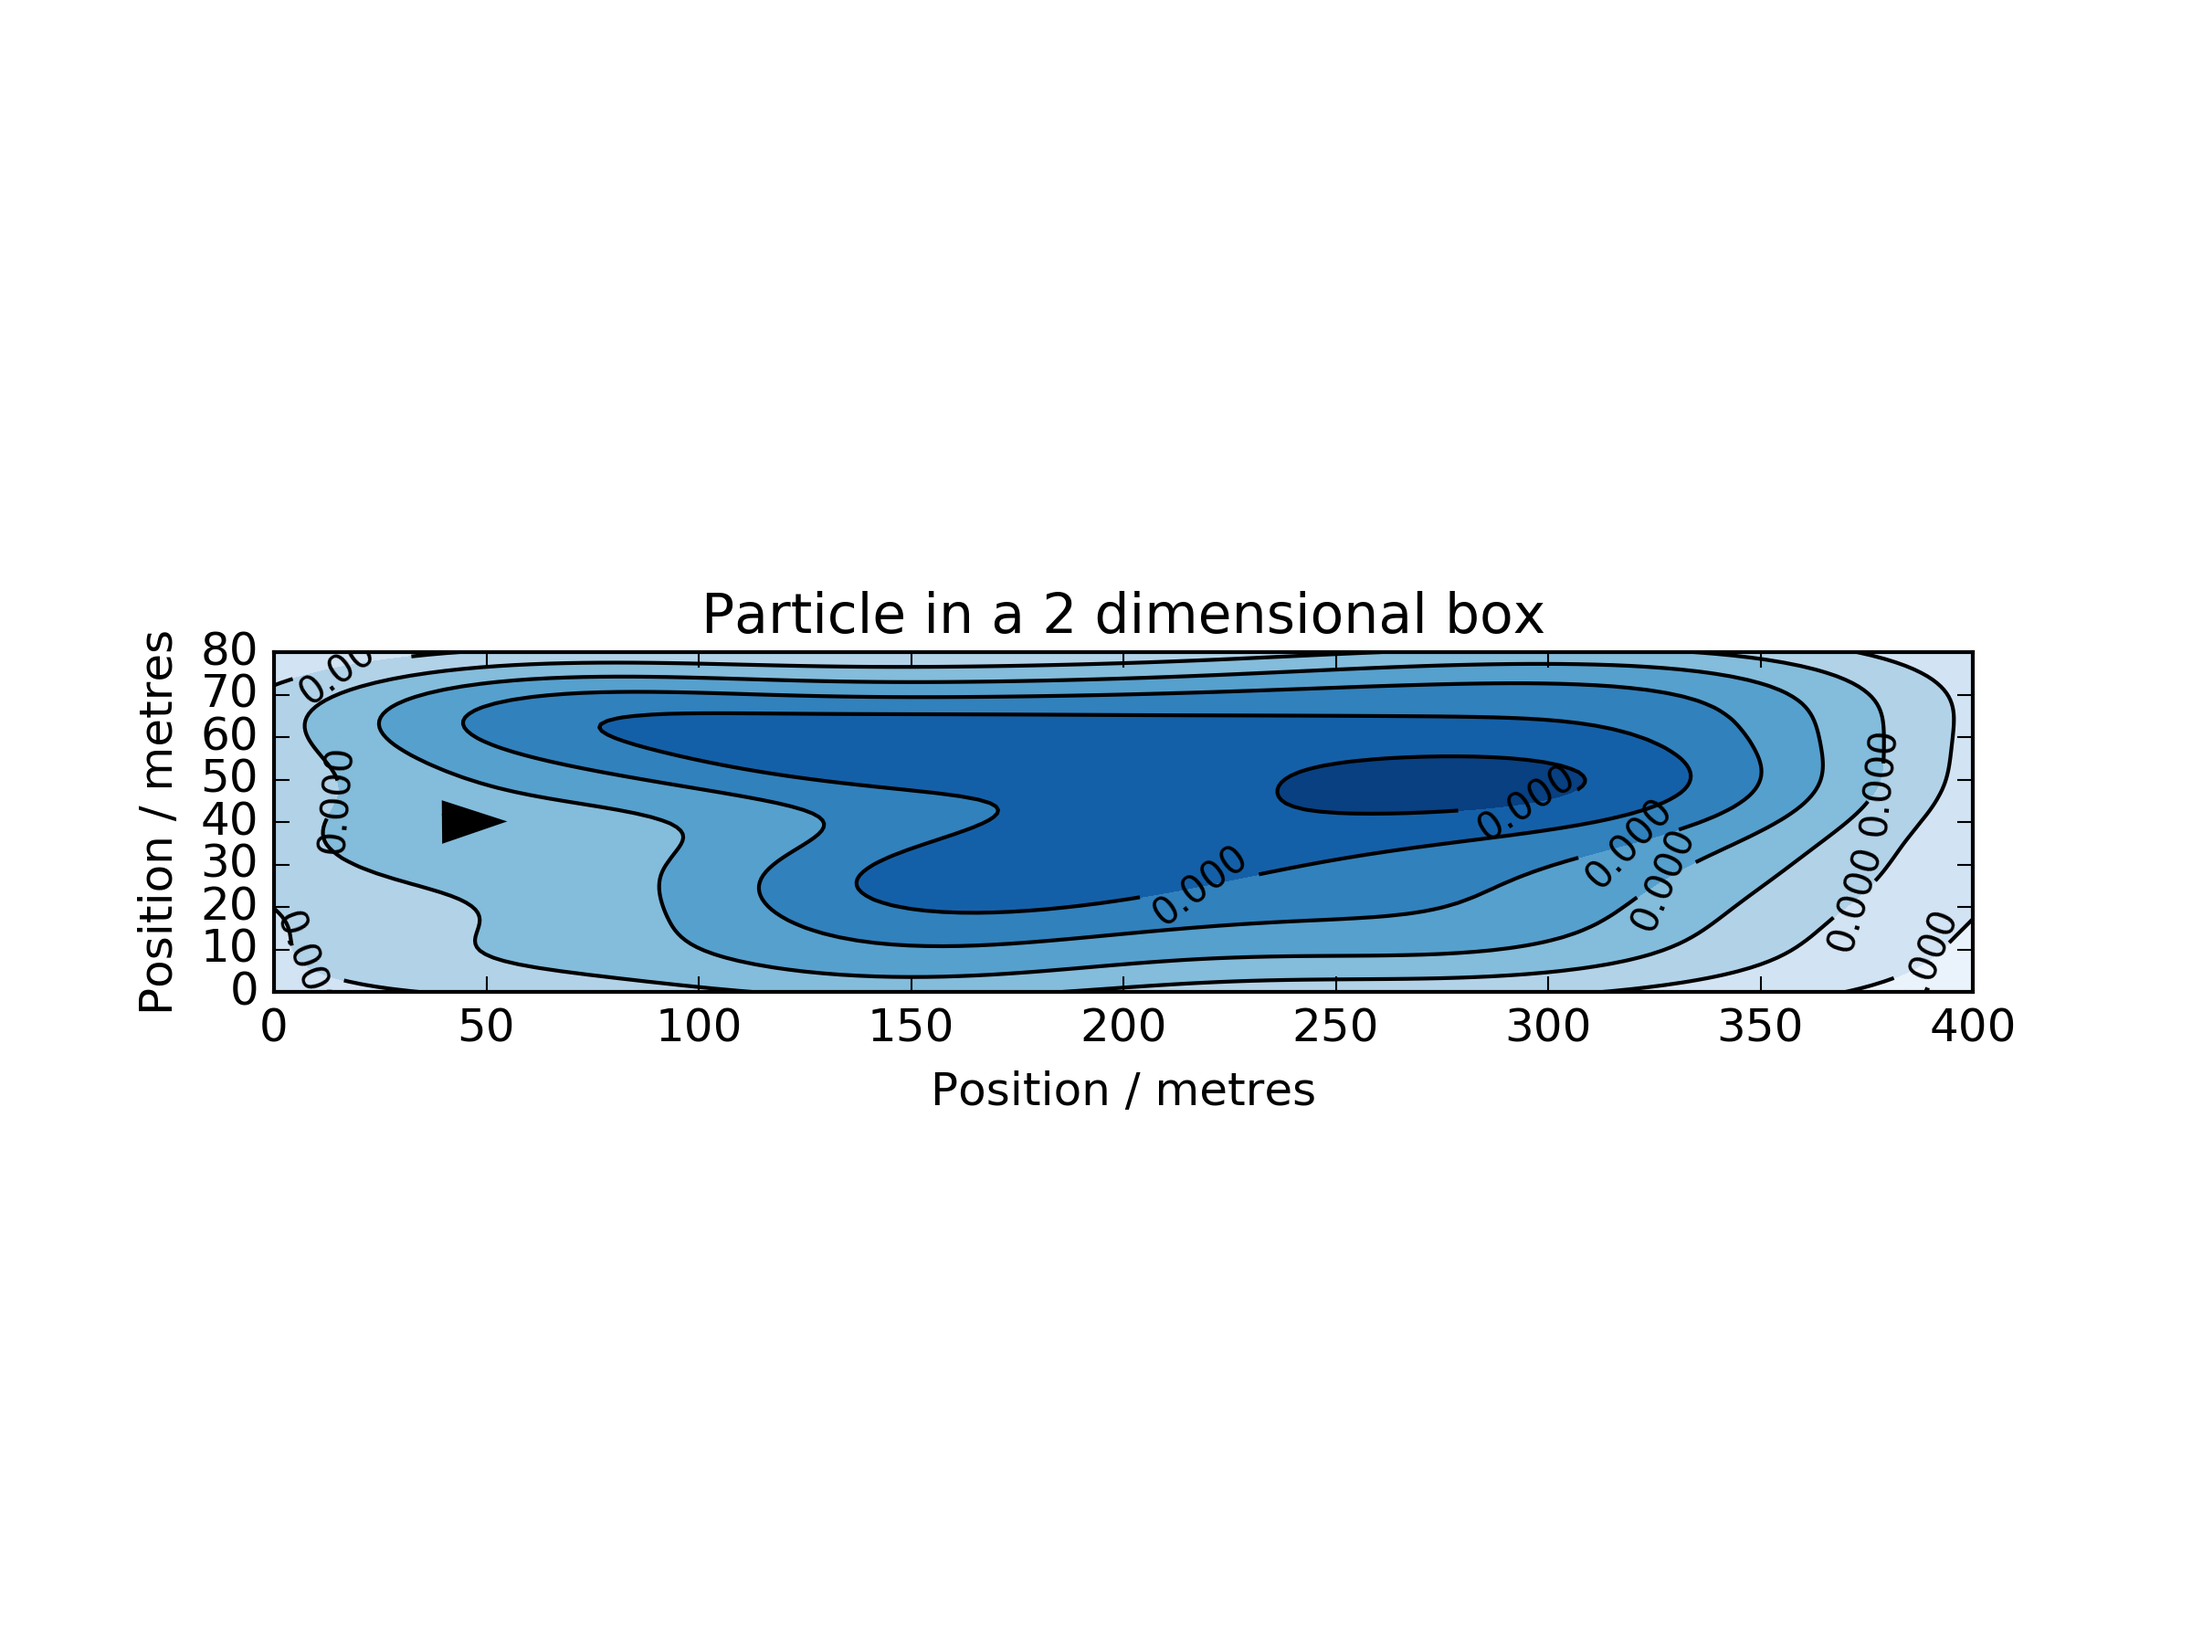
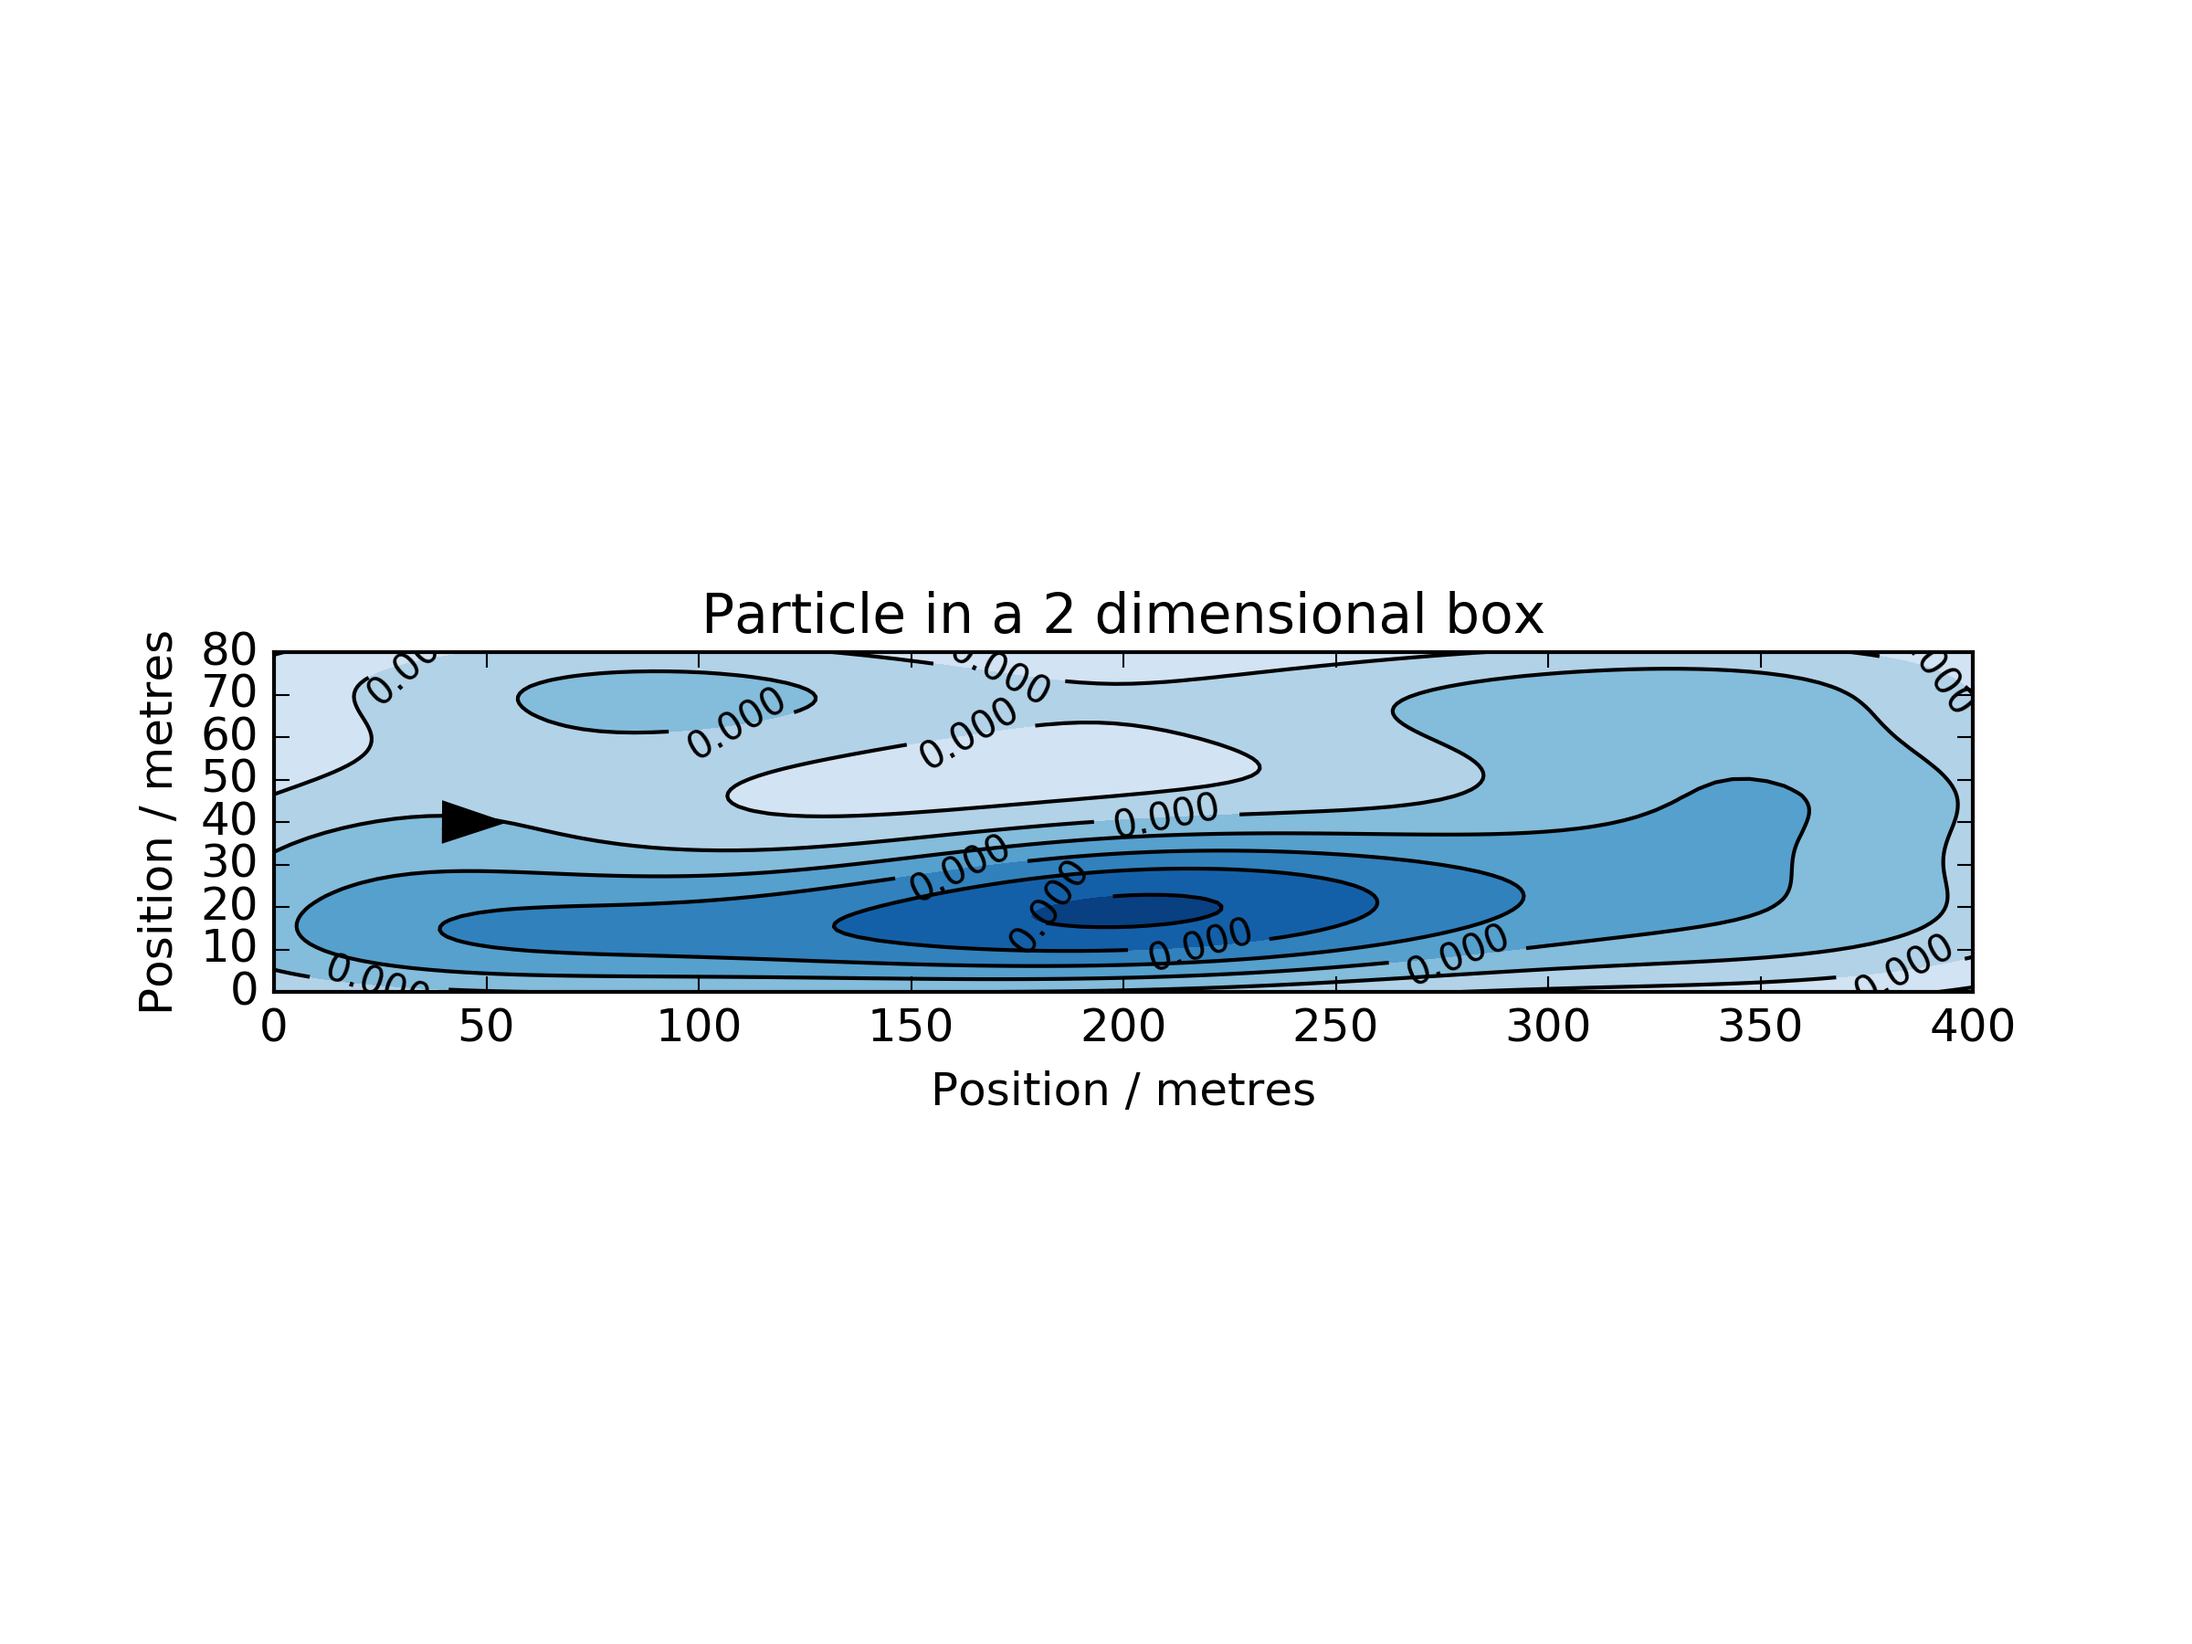
try some KDE strategies

Changed region(s): [[0.125, 0.3733, 0.9062, 0.6222]]

diff --git a/agent.py b/agent.py
@@ -2,16 +2,22 @@
 """Model Based Reflex Agent with Entropic Forcing"""
 from particleBox import particleBox
 from sys import exit
-from numpy import array
+from numpy import array, append as numpy_append
 from scipy.stats import gaussian_kde
 from json import load
 
 
 def log_volume_fractions(walks):
     'return log_volume_fractions on a set of random walks'
-    points = array([w[-1] for w in walks])
+    points = []
+    for walk in walks:
+        for i, w in enumerate(walk):
+            indexedPoint = numpy_append(w, [i])
+            walk[i] = indexedPoint
+            points.append(indexedPoint)
+    points = array(points)
     kernel = gaussian_kde(points.T)
-    return [kernel.pdf(w[-1]) for w in walks]
+    return [-sum(kernel.logpdf(array(w).T)) for w in walks]
 
     
 def calculate_causal_entropic_force(cur_macrostate, num_sample_paths, environment):
@@ -19,18 +25,19 @@ def calculate_causal_entropic_force(cur_macrostate, num_sample_paths, environmen
     # Monte Carlo path sampling
     sample_paths, initial_forces = [], []
     for _ in range(num_sample_paths):
-        walk, forces = [cur_macrostate], []
+        walk = [cur_macrostate]
+        forces = [array([0.0 for _ in range(environment.DIMS)])]
         count = int(environment.TAU / environment.TIMESTEP)
         # explore the random walk until 
         while count != 0:
-            u, f = environment.step_microstate(walk[-1])
+            u, f = environment.step_microstate(walk[-1], forces[-1])
             # if valid then redo
             if environment.valid(walk, u):
                 walk.append(u)
                 forces.append(f)
                 count -= 1
         sample_paths.append(walk[1:])
-        initial_forces.append(forces[0])
+        initial_forces.append(forces[1])
     # Kernel Density Estimation of log volume fractions
     log_volume_fracs = log_volume_fractions(sample_paths)
     # sum force contributions

diff --git a/plotLightCone.py b/plotLightCone.py
@@ -35,18 +35,19 @@ def causal(cur_macrostate, num_sample_paths, environment):
     # Monte Carlo path sampling
     walks, sample_paths, initial_forces = [], [], []
     for _ in range(num_sample_paths):
-        walk, forces = [cur_macrostate], []
+        walk = [cur_macrostate]
+        forces = [array([0.0 for _ in range(environment.DIMS)])]
         count = int(environment.TAU / environment.TIMESTEP)
         # explore the random walk until 
         while count != 0:
-            u, f = environment.step_microstate(walk[-1])
+            u, f = environment.step_microstate(walk[-1], forces[-1])
             # if valid then redo
             if environment.valid(walk, u):
                 walk.append(u)
                 forces.append(f)
                 count -= 1
         sample_paths.append(walk[1:])
-        initial_forces.append(forces[0])
+        initial_forces.append(forces[1])
         walks.append(walk)
     # Kernel Density Estimation of log volume fractions
     log_volume_fracs, kernel = log_volume_fractions(sample_paths)

diff --git a/particleBox.py b/particleBox.py
@@ -27,12 +27,12 @@ class particleBox:
         self.DISTRIBUTION = norm(0.0, 1.0)
 
 
-    def step_microstate(self, cur_state):
+    def step_microstate(self, cur_state, previousForce):
         'compute next distance by Forward Euler'
         random = self.DISTRIBUTION.rvs(self.DIMS)
         force = self.AMPLITUDE * random + self.MEAN
-        euler = (self.TIMESTEP**2.0) / (2.0*self.MASS)
-        pos = cur_state + force * euler * 50.0
+        euler = self.TIMESTEP / (2.0*self.MASS)
+        pos = cur_state + (previousForce + force) * euler
         return pos, force
     
 
@@ -49,8 +49,8 @@ class particleBox:
     
     def step_macrostate(self, cur_macrostate, causal_entropic_force):
         'move the particle subject to causal_entropic_force'
-        euler = (self.TIMESTEP**2.0) / (2.0*self.MASS)
-        return cur_macrostate + causal_entropic_force * euler * 50.0
+        euler = self.TIMESTEP / (2.0*self.MASS)
+        return cur_macrostate + causal_entropic_force * euler
 
     
     def plot(self):

diff --git a/kde.py b/kde.py
@@ -1,0 +1,10 @@
+#!/usr/bin/env python
+"""
+Investigate various methods of calculating KDE
+"""
+from scipy.stats import gaussian_kde
+
+
+def integrate_between_points():
+    'product of integral between points'
+    
